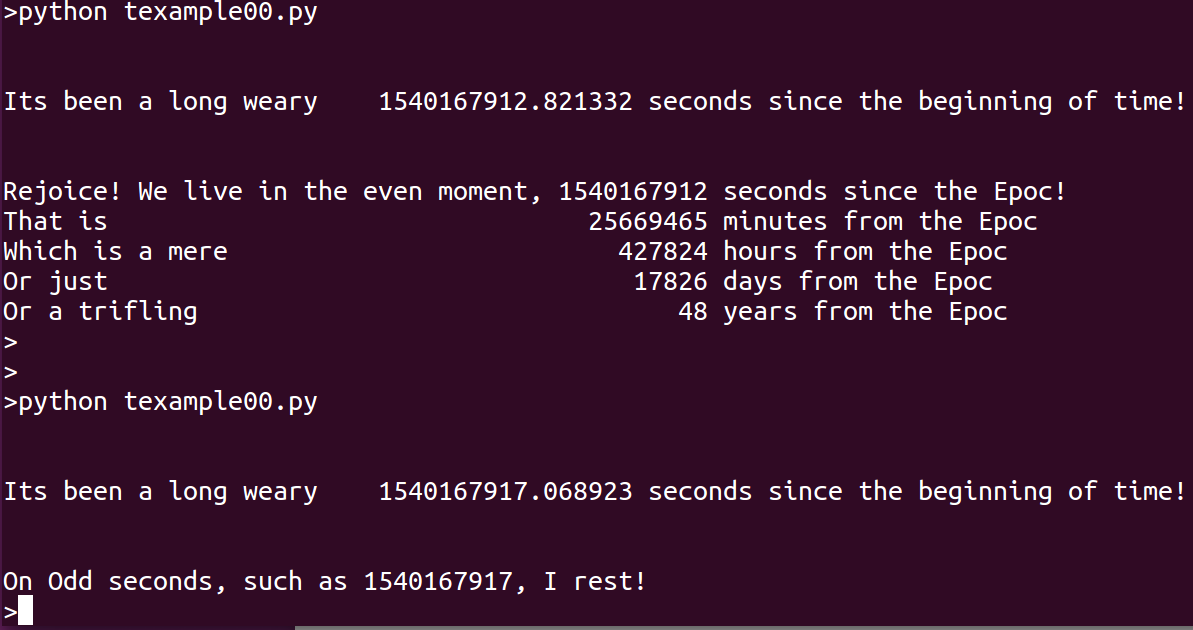
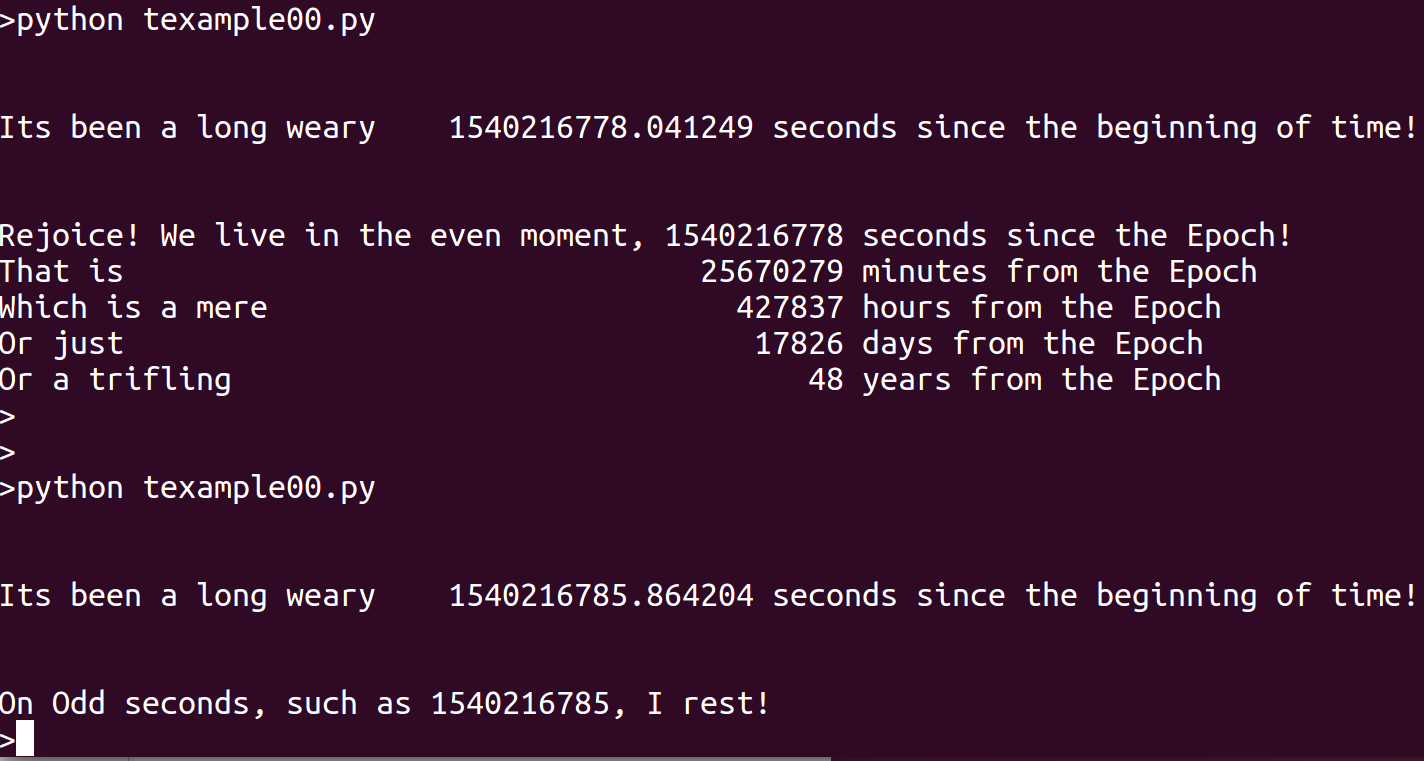
move

diff --git a/HTML/Python_Bits.html b/HTML/Python_Bits.html
@@ -4785,7 +4785,7 @@ Click to record your <b>Start</b> time.</button>
 
                             <ul>
                               <li>
-                                <b>int()</b> always returns a
+                                <b>input()</b> always returns a
                                 <b>String</b>. The <b>Numeric</b>
                                 inputs are therefore treated are
                                 saved as <b>Strings</b>. That is
@@ -15498,8 +15498,7 @@ Click to record your <b>Start</b> time.</button>
 								      Just the <b>Python Keyword
 								      <a href="https://www.programiz.com/python-programming/keyword-list#if_else_elif"
 								       target="_blank">if</a></b> is required here.<br><br>
-								
-								      <details>
+																      <details>
 								      <summary><span class = "exeblocksum">
 								        <h3>Trivial Example 1</h3>
 								      </summary></span>
@@ -15507,9 +15506,108 @@ Click to record your <b>Start</b> time.</button>
 								        <div class = "example">
 								          <b><u>The Problem</u></b><br>
 								          <div class="problem">
+								            To test whether a <b>Letter</b>
+								            input from the <b>Keyboard</b>
+								            is a valid <b>Base Code</b>.
+								          </div><br>
+								
+								          <b><u>Pseudo-Code</u></b><br>
+								          <div class="pseudo">
+								            Ask for and Input an <b>Letter</b>
+								            from the <b>Keyboard</b>.
+								            
+								            If what is <b>Input</b> is not a <b>Valid
+								            Single Alpha Character</b>, snarl and
+								            exit the program
+								            in disgust!
+								            
+								            If the <b>Letter</b> is a <b>Base Code</b>,
+								            <div style="left-margin=20px">
+								              celebrate.
+									           </div>
+								            
+								            If the <b>Letter</b> is not a <b>Base Code</b>,
+								            <div style="left-margin=20px">
+								              express remorse.
+									           </div>
+								          </div><br>
+								
+								          <b><u>Code</u></b><br>
+								          <div class="code">
+                    <span class="codecomm">								            
+
+										        
+								          <b><u>The Output</u></b><br>
+								          <div class="output">
+								          
+								          		The Code above is available in
+																				<a href="../Solutions-Python/Conditionals/Examples/texample01.py"
+																				 target="_blank">this file</a>.<br><br>
+								  
+												    		<img src="Images/texample_cond01.png"
+												           alt="Fiddle!"
+												           class="centimg"
+												           style="background: White;
+												                  border-style: solid;
+												                  border-color: red;
+												                  border-width: 2px;"><br>
+								          </div><br>
+								          
+								          <b><u>Notes, Experiments & Questions</u></b><br>
+								          <div class="experiment">
+								          
+								          <a href="https://en.wikipedia.org/wiki/Epoch_(reference_date)"
+								           target="_blank">"<b>An Epoch</b>"</a>, in general,
+								          is a point in History from which time is counted.
+								          In this context,
+								          <a href="https://en.wikipedia.org/wiki/Unix_time"
+								           target="_blank">"<b>The Epoch</b>"</a> is the point in
+								          time (<b>January 1st 1970</b>) when some extraordinarily
+								          young people decided time began for "real" computing.
+                  <a href="https://www.collinsdictionary.com/dictionary/english/poppycock"
+                   target="_blank"><b><i>Poppycock</i></b></a>!!!
+                  Speaking as one who was there, we had
+								          very fine computers in <b>1969</b> and before! Much
+								          bigger than the tiny things you all play around with today!
+								          Oh well, some battles are just not worth fighting, <b>January
+								          1970</b> it is then.<br><br>
+								          
+								          In this example there were two conditional
+								          <b>Code Blocks</b> that were mutually exclusive and
+								          covered all possible conditions.Both were tested.<br><br>
+								          
+								          Note that the continued lines were not indented
+								          as they were when using the <b>Python Interpreter
+								          Interactively</b>. Had they been indented, the
+								          extra white  space would have been assumed
+								          to be part of the code.<br><br>
+								          
+								          It is generally good practice to avoid making
+								          the same computation more than once. I have
+								          tried to follow that practice here. Can you
+								          see where?<br><br>
+								          
+								          On my system, a <b>Tab</b> ('<b>\t</b>') fills to the
+								          next line position divisible by <b>8</b>. I am not
+								          sure how consistent that behaviour might be
+								          across different platforms.
+								          
+								          </div>
+
+
+22222222222222222222222222222222222222222222222
+
+								      <details>
+								      <summary><span class = "exeblocksum">
+								        <h3>Trivial Example 3</h3>
+								      </summary></span>
+								
+								        <div class = "example">
+								          <b><u>The Problem</u></b><br>
+								          <div class="problem">
 								            To disclose the number of
 								            various time units we are from
-								            "The Epoc", but only if the value
+								            "The Epoch", but only if the value
 								            sought, in seconds, is even!
 								          </div><br>
 								
@@ -15517,19 +15615,63 @@ Click to record your <b>Start</b> time.</button>
 								          <div class="pseudo">
 								            Discover and display the
 								            Number of seconds
-								            since "The Epoc".
+								            since "The Epoch".
 								            
 								            If the number of seconds
-								            since "The Epoc" is even,
+								            since "The Epoch" is even,
 								            
 								            <div style="left-margin=20px">
 								              Compute and display the
 								              number of other
-								              time units, since the "Epoc".
+								              time units, since the "Epoch".
 								            </div>
 								            
 								            If the number of seconds
-								            since the Epoc is odd,
+								            since the Epoch is odd,
+								            <div style="left-margin=20px">
+								              Sneer a bit.
+								            </div>
+								            
+								          </div><br>
+
+
+
+
+333333333333333333333333333333333333333333
+
+
+
+								      <details>
+								      <summary><span class = "exeblocksum">
+								        <h3>Trivial Example 3</h3>
+								      </summary></span>
+								
+								        <div class = "example">
+								          <b><u>The Problem</u></b><br>
+								          <div class="problem">
+								            To disclose the number of
+								            various time units we are from
+								            "The Epoch", but only if the value
+								            sought, in seconds, is even!
+								          </div><br>
+								
+								          <b><u>Pseudo-Code</u></b><br>
+								          <div class="pseudo">
+								            Discover and display the
+								            Number of seconds
+								            since "The Epoch".
+								            
+								            If the number of seconds
+								            since "The Epoch" is even,
+								            
+								            <div style="left-margin=20px">
+								              Compute and display the
+								              number of other
+								              time units, since the "Epoch".
+								            </div>
+								            
+								            If the number of seconds
+								            since the Epoch is odd,
 								            <div style="left-margin=20px">
 								              Sneer a bit.
 								            </div>
@@ -15542,31 +15684,31 @@ Click to record your <b>Start</b> time.</button>
 										            # Import the module time as t<br>
 										            # time includes a method time()<br>
 										            # that returns the number of<br>
-										            # seconds since the Epoc<br>
+										            # seconds since the Epoch<br>
 								            </span>
 								            <br>
 																				import time as t<br>
 																				<br>
                     <span class="codecomm">
 																						# Record and display the number of<br>
-																						# seconds since the Epoc<br>
+																						# seconds since the Epoch<br>
 								            </span>
 																				<br>
-																				Seconds_From_Epoc_float = t.time()<br>
+																				Seconds_From_Epoch_float = t.time()<br>
 																				print("\n\nIts been a long weary %20.6f seconds \<br>
-																				since the beginning of time!\n\n" % Seconds_From_Epoc_float)<br>
+																				since the beginning of time!\n\n" % Seconds_From_Epoch_float)<br>
                     <br>
 																				<span class="codecomm">
 		                    # Compute the Number seconds as an Integer
 								            </span>
                     <br>
-                    Seconds_From_Epoc_int = int(Seconds_From_Epoc_float)
+                    Seconds_From_Epoch_int = int(Seconds_From_Epoch_float)
 																				<br>
 																				<span class="codecomm">
 																						# Compute whether the Second Count is even or not<br>
 								            </span>
 																				<br>
-																				Even_Second = not bool(Seconds_From_Epoc_int % 2)<br>
+																				Even_Second = not bool(Seconds_From_Epoch_int % 2)<br>
 																				<br>
 																				if (Even_Second):&nbsp;&nbsp;&nbsp;&nbsp;&nbsp;&nbsp;&nbsp;&nbsp;
                     <span class="codecomm">
@@ -15575,10 +15717,14 @@ Click to record your <b>Start</b> time.</button>
 																						&nbsp;&nbsp;&nbsp;&nbsp;# Compute time in various other time units<br>
 																				</span>
 																				<br>
-																				&nbsp;&nbsp;&nbsp;&nbsp;Minutes_From_Epoc  = Seconds_From_Epoc_int  // 60<br>
-																				&nbsp;&nbsp;&nbsp;&nbsp;Hours_From_Epoc    = Minutes_From_Epoc      // 60<br>
-																				&nbsp;&nbsp;&nbsp;&nbsp;Days_From_Epoc     = Hours_From_Epoc        // 24<br>
-																				&nbsp;&nbsp;&nbsp;&nbsp;Years_From_Epoc    = int(Days_From_Epoc     /  365.25)<br>
+																				&nbsp;&nbsp;&nbsp;&nbsp;Minutes_From_Epoch =
+																			 Seconds_From_Epoch_int // 60<br>
+																				&nbsp;&nbsp;&nbsp;&nbsp;Hours_From_Epoch&nbsp;&nbsp;&nbsp;=
+																			 Minutes_From_Epoch&nbsp;&nbsp;&nbsp;&nbsp;&nbsp;// 60<br>
+																				&nbsp;&nbsp;&nbsp;&nbsp;Days_From_Epoch&nbsp;&nbsp;&nbsp;&nbsp;=
+																			 Hours_From_Epoch&nbsp;&nbsp;&nbsp;&nbsp;&nbsp;&nbsp;&nbsp;// 24<br>
+																				&nbsp;&nbsp;&nbsp;&nbsp;Years_From_Epoch&nbsp;&nbsp;&nbsp;=
+																			 int(Days_From_Epoch&nbsp;&nbsp;&nbsp;&nbsp;/&nbsp;&nbsp;365.25)<br>
 																				<br>
 																				&nbsp;&nbsp;&nbsp;&nbsp;
                     <span class="codecomm">
@@ -15586,22 +15732,22 @@ Click to record your <b>Start</b> time.</button>
 																				</span>
 																				<br>
 																				&nbsp;&nbsp;&nbsp;&nbsp;print("Rejoice! We live in the even moment, \<br>
-																				%10d seconds since the Epoc!" % int(Seconds_From_Epoc_int))<br>
-																				&nbsp;&nbsp;&nbsp;&nbsp;print("That is\t\t\t\t     %10d minutes from the Epoc" \<br>
-																				% Minutes_From_Epoc)<br>
-																				&nbsp;&nbsp;&nbsp;&nbsp;print("Which is a mere\t\t\t     %10d hours from the Epoc" \<br>
-																				% Hours_From_Epoc)<br>
-																				&nbsp;&nbsp;&nbsp;&nbsp;print("Or just\t\t\t\t     %10d days from the Epoc" \<br>
-																				% Days_From_Epoc)<br>
-																				&nbsp;&nbsp;&nbsp;&nbsp;print("Or a trifling \t\t\t     %10d years from the Epoc" \<br>
-																				% Years_From_Epoc)<br>
+																				%10d seconds since the Epoch!" % int(Seconds_From_Epoch_int))<br>
+																				&nbsp;&nbsp;&nbsp;&nbsp;print("That is\t\t\t\t     %10d minutes from the Epoch" \<br>
+																				% Minutes_From_Epoch)<br>
+																				&nbsp;&nbsp;&nbsp;&nbsp;print("Which is a mere\t\t\t     %10d hours from the Epoch" \<br>
+																				% Hours_From_Epoch)<br>
+																				&nbsp;&nbsp;&nbsp;&nbsp;print("Or just\t\t\t\t     %10d days from the Epoch" \<br>
+																				% Days_From_Epoch)<br>
+																				&nbsp;&nbsp;&nbsp;&nbsp;print("Or a trifling \t\t\t     %10d years from the Epoch" \<br>
+																				% Years_From_Epoch)<br>
 																				<br>
 																				if (not Even_Second):&nbsp;&nbsp;&nbsp;&nbsp;&nbsp;
                     <span class="codecomm">								            
 																				  # If seconds were odd,<br>
 																				</span>
 																				&nbsp;&nbsp;&nbsp;&nbsp;print("On Odd seconds, such as %10d, I rest!" \<br>
-																				% Seconds_From_Epoc_int)&nbsp;&nbsp;
+																				% Seconds_From_Epoch_int)&nbsp;&nbsp;
                     <span class="codecomm">
 																				  # Grumble a bit!<br>
 																				</span>
@@ -15626,6 +15772,22 @@ Click to record your <b>Start</b> time.</button>
 								          <b><u>Notes, Experiments & Questions</u></b><br>
 								          <div class="experiment">
 								          
+								          <a href="https://en.wikipedia.org/wiki/Epoch_(reference_date)"
+								           target="_blank">"<b>An Epoch</b>"</a>, in general,
+								          is a point in History from which time is counted.
+								          In this context,
+								          <a href="https://en.wikipedia.org/wiki/Unix_time"
+								           target="_blank">"<b>The Epoch</b>"</a> is the point in
+								          time (<b>January 1st 1970</b>) when some extraordinarily
+								          young people decided time began for "real" computing.
+                  <a href="https://www.collinsdictionary.com/dictionary/english/poppycock"
+                   target="_blank"><b><i>Poppycock</i></b></a>!!!
+                  Speaking as one who was there, we had
+								          very fine computers in <b>1969</b> and before! Much
+								          bigger than the tiny things you all play around with today!
+								          Oh well, some battles are just not worth fighting, <b>January
+								          1970</b> it is then.<br><br>
+								          
 								          In this example there were two conditional
 								          <b>Code Blocks</b> that were mutually exclusive and
 								          covered all possible conditions.Both were tested.<br><br>
@@ -15639,7 +15801,7 @@ Click to record your <b>Start</b> time.</button>
 								          It is generally good practice to avoid making
 								          the same computation more than once. I have
 								          tried to follow that practice here. Can you
-								          see where?<br>
+								          see where?<br><br>
 								          
 								          On my system, a <b>Tab</b> ('<b>\t</b>') fills to the
 								          next line position divisible by <b>8</b>. I am not

diff --git a/Solutions-Python/Conditionals/Examples/texample01.py b/Solutions-Python/Conditionals/Examples/texample01.py
@@ -1,0 +1,1 @@
+texample01.txt
